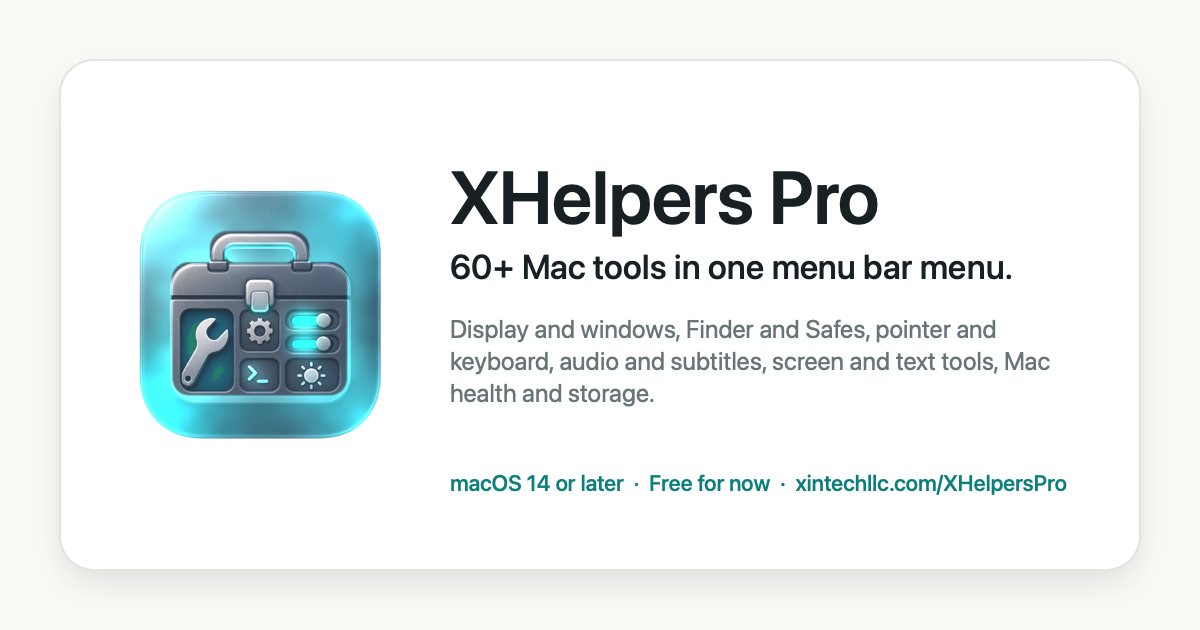
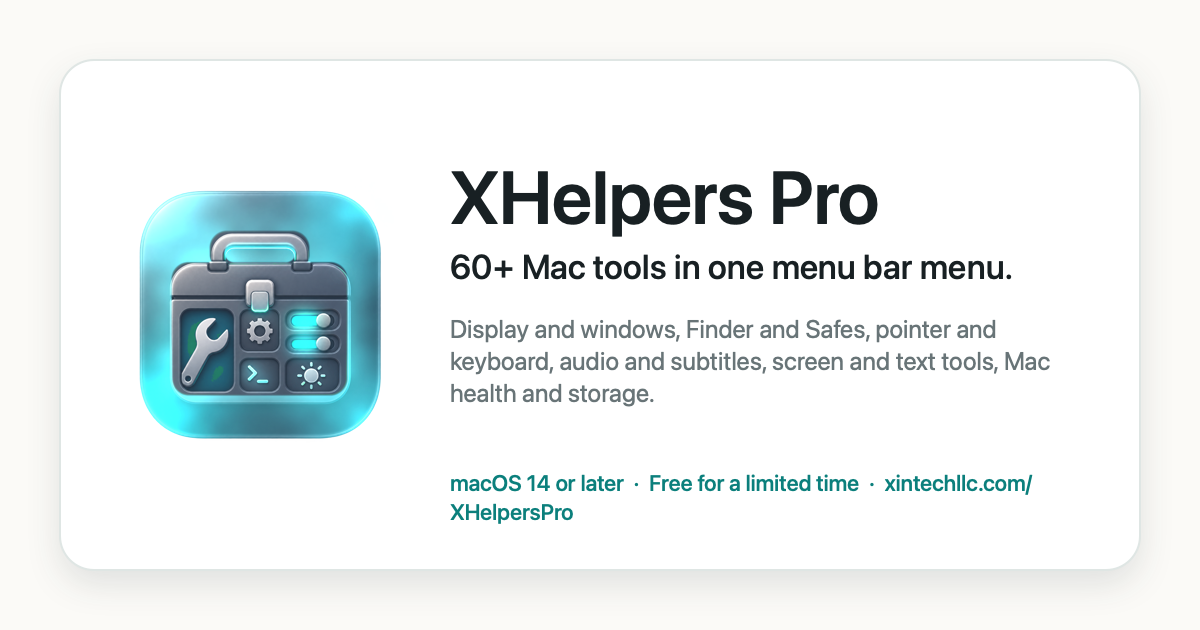
XHelpers Pro homepage: free for a limited time
Agent-Model: claude-fable-5-1
Machine: FM5B

Changed region(s): [[0.5858, 0.754, 0.8942, 0.7841], [0.37, 0.7841, 0.4933, 0.8444]]

diff --git a/XHelpersPro/index.html b/XHelpersPro/index.html
@@ -4,7 +4,7 @@
     <meta charset="utf-8">
     <meta name="viewport" content="width=device-width, initial-scale=1">
     <title>XHelpers Pro for Mac</title>
-    <meta name="description" content="60+ Mac tools in one menu bar menu: display and windows, Finder and Safes, pointer and keyboard, audio and subtitles, screen and text tools, Mac health and storage. Free for now, with a free per-Mac license. macOS 14 or later, no account required.">
+    <meta name="description" content="60+ Mac tools in one menu bar menu: display and windows, Finder and Safes, pointer and keyboard, audio and subtitles, screen and text tools, Mac health and storage. Free for a limited time, with a free per-Mac license. macOS 14 or later, no account required.">
     <link rel="canonical" href="https://xintechllc.com/XHelpersPro/">
     <meta name="google-site-verification" content="E7DLX6ZlccKL2RXTHrOx2P_Wzp35A1nDlLM3SkugHPE">
     <link rel="alternate" hreflang="en" href="https://xintechllc.com/XHelpersPro/">
@@ -37,7 +37,7 @@
     <meta property="og:type" content="website">
     <meta property="og:site_name" content="XHelpers Pro">
     <meta property="og:title" content="XHelpers Pro for Mac">
-    <meta property="og:description" content="60+ Mac tools in one menu bar menu: display and windows, Finder and Safes, pointer and keyboard, audio and subtitles, screen and text tools, Mac health and storage. Free for now, with a free per-Mac license. macOS 14 or later, no account required.">
+    <meta property="og:description" content="60+ Mac tools in one menu bar menu: display and windows, Finder and Safes, pointer and keyboard, audio and subtitles, screen and text tools, Mac health and storage. Free for a limited time, with a free per-Mac license. macOS 14 or later, no account required.">
     <meta property="og:url" content="https://xintechllc.com/XHelpersPro/">
     <meta property="og:image" content="https://xintechllc.com/XHelpersPro/assets/refresh/og-image.png?v=20260916">
     <meta property="og:image:width" content="1200">
@@ -45,7 +45,7 @@
     <meta property="og:image:alt" content="XHelpers Pro app icon beside the line: 60+ Mac tools in one menu bar menu.">
     <meta name="twitter:card" content="summary_large_image">
     <meta name="twitter:title" content="XHelpers Pro for Mac">
-    <meta name="twitter:description" content="60+ Mac tools in one menu bar menu: display and windows, Finder and Safes, pointer and keyboard, audio and subtitles, screen and text tools, Mac health and storage. Free for now, with a free per-Mac license. macOS 14 or later, no account required.">
+    <meta name="twitter:description" content="60+ Mac tools in one menu bar menu: display and windows, Finder and Safes, pointer and keyboard, audio and subtitles, screen and text tools, Mac health and storage. Free for a limited time, with a free per-Mac license. macOS 14 or later, no account required.">
     <meta name="twitter:image" content="https://xintechllc.com/XHelpersPro/assets/refresh/og-image.png?v=20260916">
     <link rel="icon" href="assets/app-icon.png" type="image/png">
     <link rel="preload" href="assets/refresh/menu-two-column.webp?v=20260916" as="image" type="image/webp">
@@ -58,7 +58,7 @@
   "operatingSystem": "macOS 14.0 or later",
   "applicationCategory": "UtilitiesApplication",
   "softwareVersion": "1.0.7",
-  "description": "60+ Mac tools in one menu bar menu: display and windows, Finder and Safes, pointer and keyboard, audio and subtitles, screen and text tools, Mac health and storage. Free for now, with a free per-Mac license. macOS 14 or later, no account required.",
+  "description": "60+ Mac tools in one menu bar menu: display and windows, Finder and Safes, pointer and keyboard, audio and subtitles, screen and text tools, Mac health and storage. Free for a limited time, with a free per-Mac license. macOS 14 or later, no account required.",
   "url": "https://xintechllc.com/XHelpersPro/",
   "downloadUrl": "https://xintechllc.com/XHelpersPro/download/XHelpersPro-macOS.dmg",
   "image": "https://xintechllc.com/XHelpersPro/assets/refresh/og-image.png?v=20260916",
@@ -71,7 +71,7 @@
     "@type": "Offer",
     "price": "0",
     "priceCurrency": "USD",
-    "description": "Free for now: a free per-Mac license, no account required."
+    "description": "Free for a limited time: a free per-Mac license, no account required."
   }
 }
     </script>
@@ -445,7 +445,7 @@
         </nav>
         <div class="nx-hero-stats" aria-label="At a glance">
           <span><b>macOS 14</b> or later</span>
-          <span><b>Free</b> for now</span>
+          <span><b>Free</b> for a limited time</span>
         </div>
       </div>
       <figure class="nx-hero-shot">
@@ -931,7 +931,7 @@
       <div class="nx-get-cta">
         <div class="section-kicker">How to get it</div>
         <h2 id="release-title">Download it. It&rsquo;s free.</h2>
-        <p>Signed and notarized, direct from us. Free for now, with a free license and nothing to sign up for.</p>
+        <p>Signed and notarized, direct from us. Free for a limited time, with a free license and nothing to sign up for.</p>
         <div class="download-actions">
           <a class="button button-primary" href="https://xintechllc.com/XHelpersPro/download/XHelpersPro-macOS.dmg">
             <span class="button-glyph" aria-hidden="true"></span>
